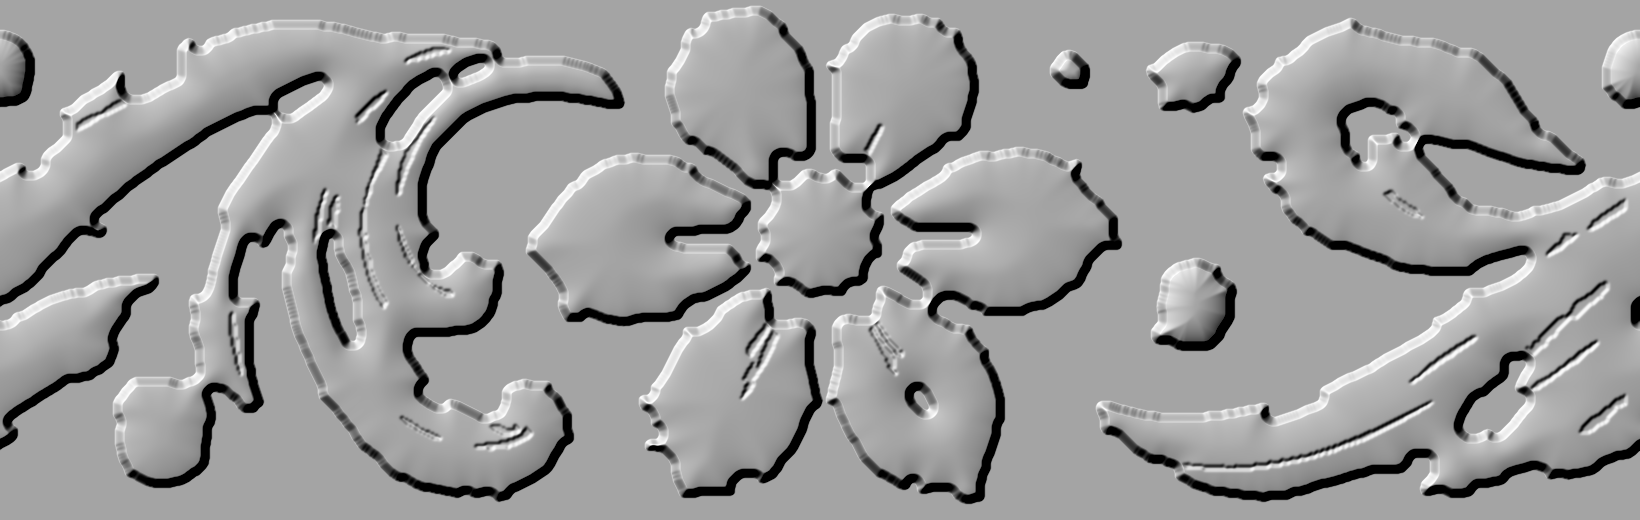
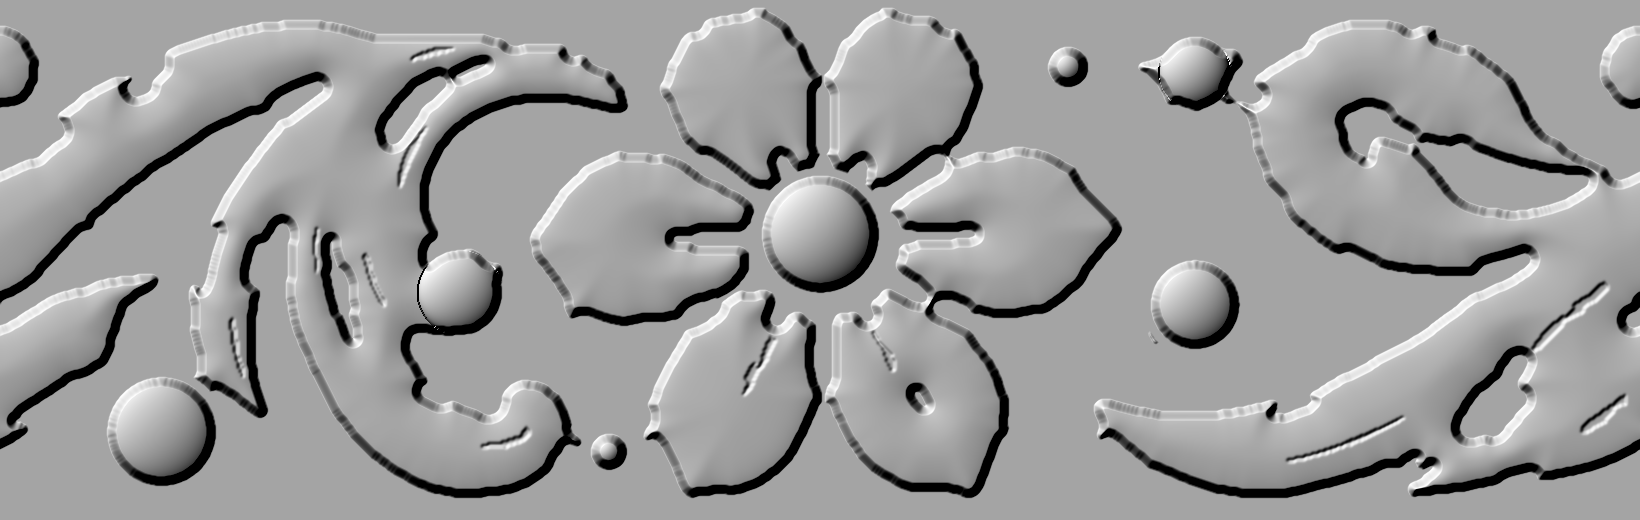
v2 step 4: crisp-edge mask refinement, level-set outline smoothing, thin-gap narrowing, ring-template-matched beads (7) with moats + hemisphere domes

diff --git a/tools/v2/make_map_v2.py b/tools/v2/make_map_v2.py
@@ -20,37 +20,46 @@ mt = periodic(mask)
 V = cv2.cvtColor(ref, cv2.COLOR_BGR2GRAY).astype(np.float32); Vt = periodic(V)
 rs = lambda a: cv2.resize(a, (TW, TH), interpolation=cv2.INTER_CUBIC)
 sg = lambda a, s: ndi.gaussian_filter(a, s, mode=('nearest', 'wrap'))
-B = sg(rs(sg(mt, .8)), SIG) > .5
-lab, n = ndi.label(B); ar = np.bincount(lab.ravel())
+def tri(a): return np.tile(a, (1, 3))
+def sdf_of(Bm): return (ndi.distance_transform_edt(tri(Bm))[:, TW:2 * TW] - ndi.distance_transform_edt(~tri(Bm))[:, TW:2 * TW]).astype(np.float32)
+B = sg(rs(sg(mt, .8)), 1.5) > .5
+for ss in (SIG, SIG * .8):                       # D-v2 s73: level-set smoothing = smooth the signed distance, re-threshold at 0 (kills the ref stair-steps, keeps tips)
+    B = sg(sdf_of(B), ss) > 0
+lab, n = ndi.label(B); ar = np.bincount(lab.ravel(), minlength=n + 1)
 B = np.isin(lab, [i for i in range(1, n + 1) if ar[i] >= 150])
 hl, hn = ndi.label(~B); ha = np.bincount(hl.ravel(), minlength=hn + 1)
 B = B | np.isin(hl, [i for i in range(1, hn + 1) if ha[i] < 150])   # fill small holes
-def tri(a): return np.tile(a, (1, 3))
-d_in = ndi.distance_transform_edt(tri(B))[:, TW:2 * TW]; d_out = ndi.distance_transform_edt(~tri(B))[:, TW:2 * TW]
-sdf = sg((d_in - d_out).astype(np.float32), 1.0)
-lab3, n3 = ndi.label(tri(B)); labm = lab3[:, TW:2 * TW]
-level = np.zeros(B.shape, np.float32)
-fcx, fcy = (1015 - C0) * TW / P, 116 * TH / 258
-Rmax = {}
-for i in np.unique(labm[B]):
-    r = labm == i; A = int((lab3 == i).sum()); R = float(sdf[r].max()); Rmax[i] = (A, R)
-    bead = A < 9000 and np.pi * R * R / A > .72
-    if not bead: continue
-    s = np.clip(sdf / R, 0, 1); top = FBEAD if np.hypot(*(np.argwhere(r).mean(0)[::-1] - (fcx, fcy))) < 40 else BEAD
-    level[r] = (.3 + (top - .3) * np.sqrt(np.clip(1 - (1 - s) ** 2, 0, 1)))[r]
-big = B & (level == 0)
+# thin-gap narrowing: background strips < 12 map px wide (petal gaps, slits) are wider than the ref's hairlines -> grow gold GN px into them from both sides
+rr = 6; yy_, xx_ = np.mgrid[-rr:rr + 1, -rr:rr + 1]; disc = (yy_ ** 2 + xx_ ** 2) <= rr * rr
+opn = ndi.binary_opening(tri(~B), structure=disc)[:, TW:2 * TW]
+thin = ~B & ~opn
+B = B | (thin & (ndi.distance_transform_edt(~tri(B))[:, TW:2 * TW] <= E('GN', 2.5)))
+# beads (ring-template matched on the ref, tile px x,y,r, moat?, top): carve moat ring, stamp disc
+sc = TW / P; Yg, Xg = np.mgrid[:TH, :TW]
+BEADS = [(407, 116, 29, 1, FBEAD), (593, 151, 22, 1, BEAD), (80, 214, 27, 1, BEAD), (530, 33, 10, 1, BEAD), (302, 224, 9, 1, BEAD), (593, 36, 18, 0, BEAD), (228, 145, 21, 0, .78)]
+dist_b = np.full(B.shape, 1e9, np.float32)
+for bx, by, br, moat, top in BEADS:
+    d = np.hypot(Xg - bx * sc, Yg - by * sc); R = br * sc
+    if moat: B = B & ~((d > R) & (d <= R + E('MOAT', 8)))
+    B = B | (d <= R)
+sdf = sg(sdf_of(B), 1.0)
+level = np.zeros(B.shape, np.float32); isbead = np.zeros(B.shape, bool)
+for bx, by, br, moat, top in BEADS:
+    d = np.hypot(Xg - bx * sc, Yg - by * sc); R = br * sc; r_ = d <= R
+    level[r_] = (.3 + (top - .3) * np.sqrt(np.clip(1 - (d / R) ** 2, 0, 1)))[r_]; isbead |= r_
+big = B & ~isbead
 yy, xx = np.mgrid[-30:31, -30:31]; fp = (yy ** 2 + xx ** 2) <= 900
 Rloc = sg(ndi.maximum_filter(tri(np.maximum(sdf, 0)), footprint=fp, mode='nearest')[:, TW:2 * TW], 14)   # tiled x3 so the round footprint wraps
 dn = sg(np.clip(sdf / np.maximum(Rloc, 8), 0, 1), 4)
 plate = .58 * (1 - PL * (1 - dn) ** 2)
 if GR > 0:   # thin dark hairlines inside gold (black-hat of ref luminance); wide dark bands are reflections, not grooves -> thin + elongated comps only
     Vb = cv2.GaussianBlur(Vt, (0, 0), 1.0); bh = cv2.morphologyEx(Vb, cv2.MORPH_CLOSE, np.ones((5, 5), np.uint8)) - Vb
-    g = rs(((bh > 22)).astype(np.float32)) > .5
-    g &= ndi.binary_erosion(B, iterations=14)
+    g = rs(((bh > E('GT', 30))).astype(np.float32)) > .5
+    g &= ndi.binary_erosion(B & ~isbead, iterations=14)
     gl, gn = ndi.label(g, structure=np.ones((3, 3))); keep = np.zeros_like(g)
     for k, sl in enumerate(ndi.find_objects(gl), 1):
         h_, w_ = sl[0].stop - sl[0].start, sl[1].stop - sl[1].start
-        if max(h_, w_) >= 30: keep |= gl == k
+        if max(h_, w_) >= 40: keep |= gl == k
     plate = plate * (1 - GD * sg(keep.astype(np.float32), 1.3) / max(sg(keep.astype(np.float32), 1.3).max(), 1e-3))
 level = np.where(big, plate, level)
 bev = np.clip(sdf / W, 0, 1); bev = bev * bev * (3 - 2 * bev)
@@ -60,4 +69,4 @@ cv2.imwrite(OUT, (H * 65535).astype(np.uint16))
 m_ = H; gy, gx = np.gradient(m_ * 40); nn = np.dstack([-gx, -gy, np.ones_like(gx)]); nn /= np.linalg.norm(nn, axis=2, keepdims=True)
 hs = np.clip(nn @ np.array([-1, -1, 1.2]) / np.linalg.norm([-1, -1, 1.2]), 0, 1); hs = hs / hs.max()
 cv2.imwrite(OUT.replace('.png', '_hillshade.png'), (hs * 255).astype(np.uint8))
-print('wrote', OUT, H.shape, 'beads:', sum(1 for i, (a, R) in Rmax.items() if a < 9000 and np.pi * R * R / a > .72), 'coverage %.3f' % B.mean())
+print('wrote', OUT, H.shape, 'beads:', len(BEADS), 'coverage %.3f' % B.mean())

diff --git a/tools/v2/mask_panel.py b/tools/v2/mask_panel.py
@@ -25,5 +25,12 @@ T=cv2.GaussianBlur(np.abs(V-cv2.GaussianBlur(V,(0,0),1.5)),(0,0),2)
 g=ndi.binary_erosion(ndi.binary_opening(T>14,structure=np.ones((11,11))),iterations=4)   # open 11 keeps wide patches only (rims are thin); erode 4 = compensate texture-blur bleed into gold
 m=ndi.binary_opening(m&~g,structure=np.ones((5,5)))
 lab,n=ndi.label(m);sz=ndi.sum(m,lab,range(1,n+1));m=np.isin(lab,[i+1 for i,z in enumerate(sz) if z>=80])
+# edge refinement (s73): GrabCut/ground-removal edges are ragged (5-10 px wobble); the gold rim itself is a crisp bright threshold edge. Use the current mask only as the COARSE region:
+# final = (blur(V,1.2) > 95, opened) inside dilate(mask, 6)  U  erode(mask, 3)  -> crisp pointed petals/leaf tips, shaded scroll interiors kept from the coarse mask
+Vb2 = cv2.GaussianBlur(cv2.cvtColor(P, cv2.COLOR_BGR2GRAY).astype(np.float32), (0, 0), 1.2)
+T0 = ndi.binary_opening(Vb2 > 95, structure=np.ones((3, 3)))
+m = (T0 & ndi.binary_dilation(m, iterations=6)) | ndi.binary_erosion(m, iterations=3)
+m = ndi.binary_opening(m, structure=np.ones((3, 3)))
+lab, n = ndi.label(m); sz = ndi.sum(m, lab, range(1, n + 1)); m = np.isin(lab, [i + 1 for i, z in enumerate(sz) if z >= 80])
 cv2.imwrite('maps/v2/panel_mask.png',(m*255).astype(np.uint8))
 # periodicity: IoU of mask vs mask shifted by period for shifts around 813 (x offset 70 removed)
